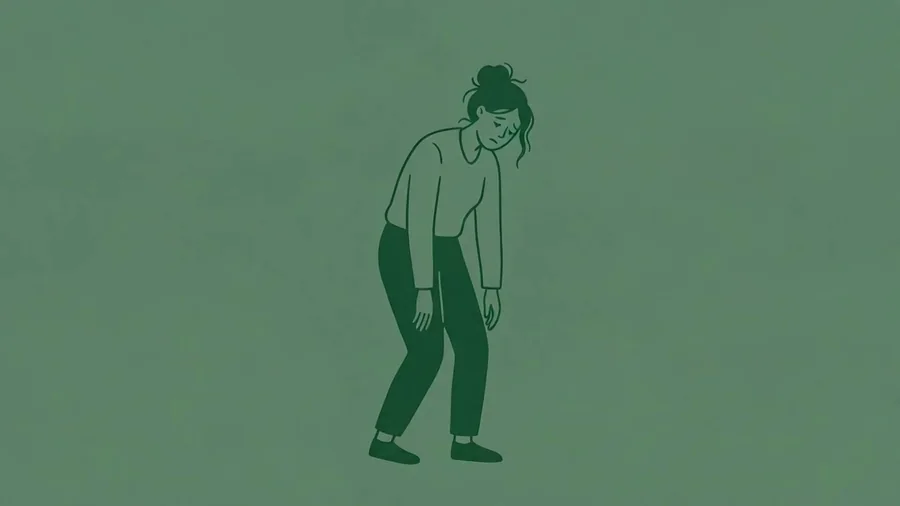
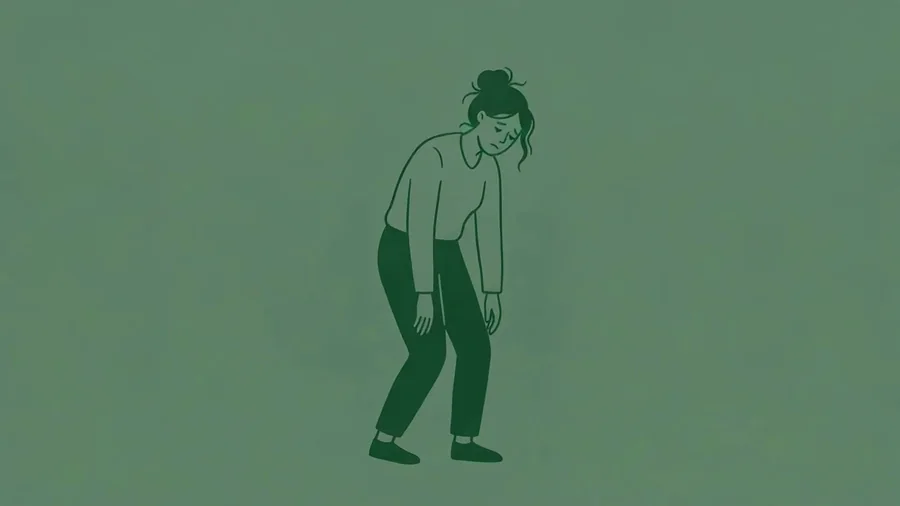
kampania: mocniejszy luk energii w grze - od gleboko zgarbionej w mroku po rece w gorze i szeroki usmiech, uśmiech rosnie z kazdym produktem; cache-bust v4

diff --git a/powrot-do-zywych-2.html b/powrot-do-zywych-2.html
@@ -432,7 +432,7 @@ html.pt-in body>:not(header) { animation: ptFadeIn 0.32s ease both; }
         </div>
         <div class="game-wrap">
             <div class="game-stage">
-                <img id="gameArt" src="gra-stan-0.webp?v=3" alt="Stojąca pracowniczka, jej postawa i energia zmieniają się wraz z kolejnymi rytuałami" width="900" height="506">
+                <img id="gameArt" src="gra-stan-0.webp?v=4" alt="Stojąca pracowniczka, jej postawa i energia zmieniają się wraz z kolejnymi rytuałami" width="900" height="506">
                 <div class="game-tray">
                     <button type="button" class="game-item" data-stage="1"><img src="icons/icon-crate-fruit.webp" alt=""><b>Owocowe Czwartki</b></button>
                     <button type="button" class="game-item" data-stage="2"><img src="icons/icon-sandwich-half.webp" alt=""><b>Kanapkowe Wtorki</b></button>
@@ -764,12 +764,12 @@ html.pt-in body>:not(header) { animation: ptFadeIn 0.32s ease both; }
     var level = 0;
 
     // wstepne wczytanie stanow, zeby nie migalo
-    for (var i = 1; i <= 4; i++) { var pre = new Image(); pre.src = 'gra-stan-' + i + '.webp?v=3'; }
+    for (var i = 1; i <= 4; i++) { var pre = new Image(); pre.src = 'gra-stan-' + i + '.webp?v=4'; }
 
     function render() {
         art.style.opacity = '0';
         setTimeout(function () {
-            art.src = 'gra-stan-' + level + '.webp?v=3';
+            art.src = 'gra-stan-' + level + '.webp?v=4';
             art.style.opacity = '1';
         }, 130);
         fill.style.width = (level / 4 * 100) + '%';
